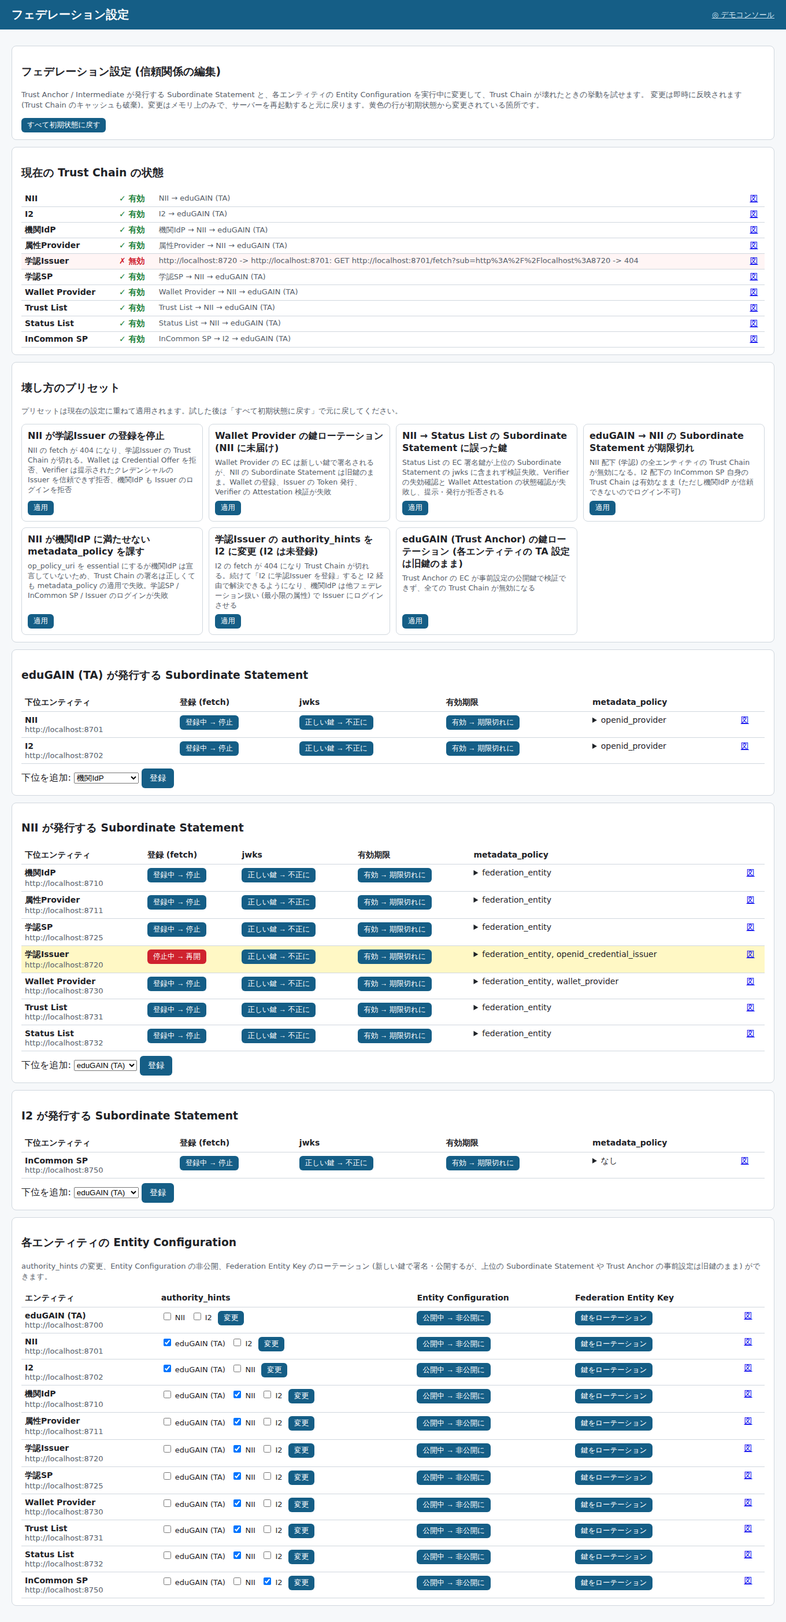
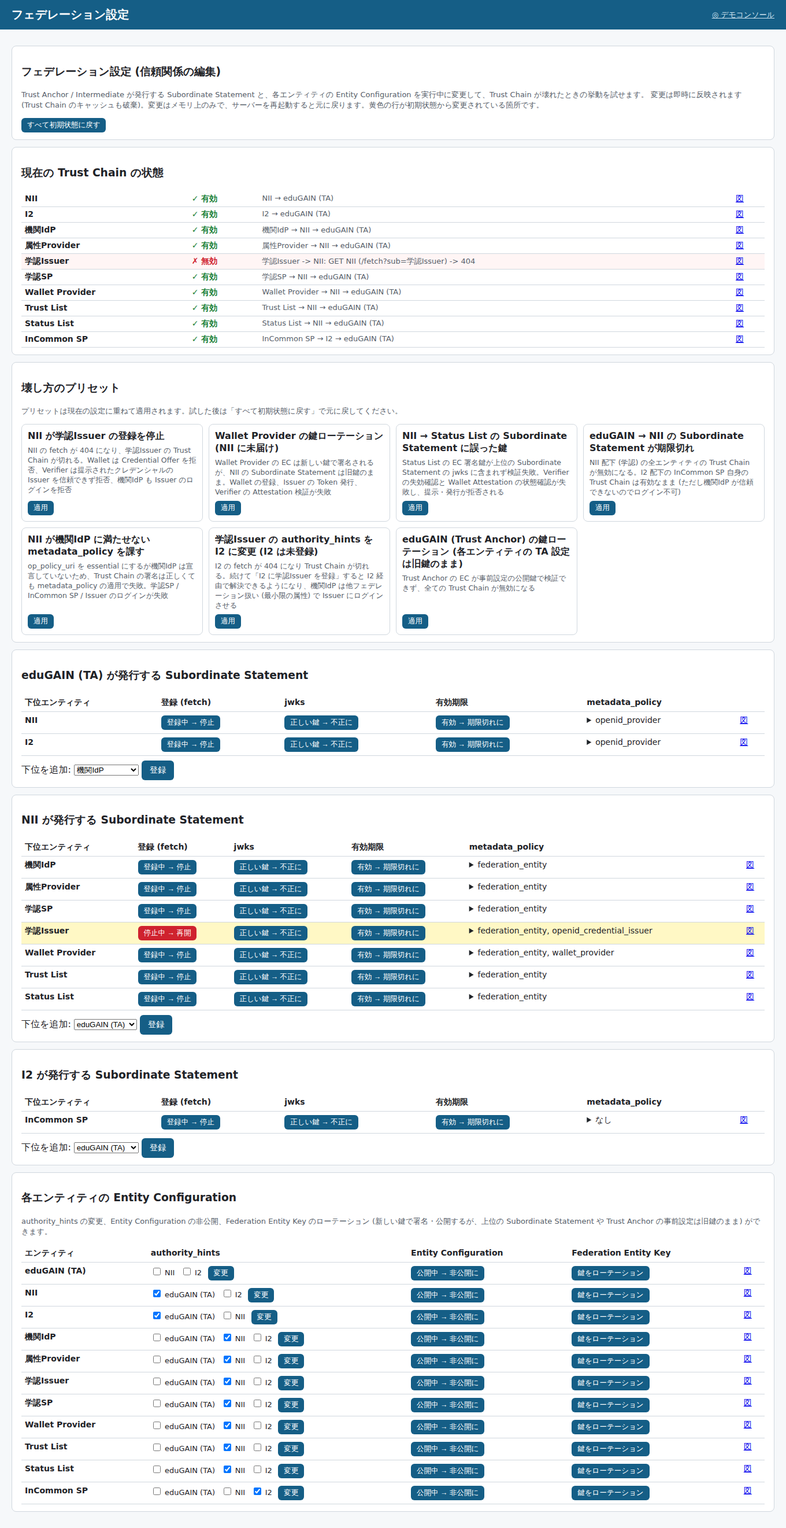
Show entity display names instead of URLs in UI messages
Add a shared humanize() that replaces entity identifiers (also URL-encoded
ones and URLs under them) with names like 学認Issuer, and apply it to the
timeline, error messages, trust chain paths, the visualizer and settings
pages. The Go web wallet fetches the same names from the demo console
(/api/entity-names) and applies them to its steps, errors and screens.

Claude-Session: https://claude.ai/code/session_01UThMbN7Kw4nPwMHsZJPwcr

diff --git a/src/federation/trust-chain-view.ts b/src/federation/trust-chain-view.ts
@@ -1,5 +1,6 @@
 import * as jose from 'jose'
-import { esc } from '../common/html.js'
+import { esc, escMsg } from '../common/html.js'
+import { humanize } from '../common/names.js'
 import type { FederationMetadata, MetadataPolicy } from './entity.js'
 import {
   type ResolvedTrustChain,
@@ -215,7 +216,7 @@ const diagramSvg = (model: Model, leafId: string, path: Set<string>, label: (id:
           [`metadata: ${trunc(Object.keys(node.claims.metadata ?? {}).join(', ') || '-', 30)}`],
         ]
       : node.fetch && !node.fetch.ok
-        ? [['取得失敗', 'tng'], [trunc(node.fetch.error ?? '', 40), 'tng']]
+        ? [['取得失敗', 'tng'], [trunc(humanize(node.fetch.error ?? ''), 40), 'tng']]
         : [['(未取得)', 'tmut']]
     parts.push(`<g><rect x="${p.x}" y="${p.y}" width="${EC_W}" height="${EC_H}" rx="8" class="card ${onPath ? 'onp' : ''}" ${st === 'ng' ? `style="stroke:${COLORS.ng};stroke-width:2.5"` : ''}/>
       <path d="M${p.x} ${p.y + 8}a8 8 0 0 1 8 -8h${EC_W - 16}a8 8 0 0 1 8 8v20h-${EC_W}z" class="ech"/>
@@ -257,7 +258,7 @@ const diagramSvg = (model: Model, leafId: string, path: Set<string>, label: (id:
             `metadata_policy: ${trunc(Object.keys(s.claims.metadata_policy ?? {}).join(', ') || 'なし', 24)}`,
           ],
         ]
-      : [['取得失敗', 'tng'], [trunc(s.fetch?.error ?? '', 42), 'tng']]
+      : [['取得失敗', 'tng'], [trunc(humanize(s.fetch?.error ?? ''), 42), 'tng']]
     parts.push(`<g><rect x="${p.x}" y="${p.y}" width="${SS_W}" height="${EC_H}" rx="8" class="card ${path.has(s.issuer) && path.has(s.entity) ? 'onp' : ''}" ${st === 'ng' ? `style="stroke:${COLORS.ng};stroke-width:2.5"` : ''}/>
       <path d="M${p.x} ${p.y + 8}a8 8 0 0 1 8 -8h${SS_W - 16}a8 8 0 0 1 8 8v20h-${SS_W}z" class="ssh"/>
       <text x="${p.x + 10}" y="${p.y + 19}" class="ht">Subordinate Statement</text>
@@ -286,7 +287,7 @@ const diagramSvg = (model: Model, leafId: string, path: Set<string>, label: (id:
           ['(TA から順にマージして Leaf に適用)'],
           [`entity types: ${trunc(Object.keys(final.resolved).join(', '), 28)}`],
         ]
-      : [[trunc(final.message, 44), 'tng'], [trunc(final.message.slice(43), 44), 'tng']]
+      : [[trunc(humanize(final.message), 44), 'tng'], [trunc(humanize(final.message).slice(43), 44), 'tng']]
     parts.push(`<g><rect x="${x}" y="${y}" width="${SS_W}" height="${EC_H - 40}" rx="8" class="card" style="stroke:${ok ? COLORS.ok : COLORS.ng};stroke-width:2;stroke-dasharray:6 4"/>
       <text x="${x + 10}" y="${y + 24}" class="ft" fill="${ok ? COLORS.ok : COLORS.ng}">${ok ? 'Resolved Metadata' : 'Trust Chain 構築失敗'}</text>
       ${lines(x + 10, y + 50, rows)}${stepNo(final, x + SS_W - 4, y + 4)}</g>`)
@@ -340,8 +341,8 @@ const stepList = (model: Model, rawLabel: (id?: string) => string) => {
         st = e.ok ? 'ok' : 'ng'
         text =
           e.kind === 'ec'
-            ? `${label(e.entity)} の Entity Configuration を取得 <code>GET ${esc(e.url)}</code>`
-            : `${label(e.issuer as string)} から ${label(e.entity)} についての Subordinate Statement を取得 <code>GET ${esc(e.url)}</code>`
+            ? `${label(e.entity)} の Entity Configuration を取得 <code>GET ${escMsg(e.url)}</code>`
+            : `${label(e.issuer as string)} から ${label(e.entity)} についての Subordinate Statement を取得 <code>GET ${escMsg(e.url)}</code>`
         break
       case 'authority_hints':
         text = `${label(e.entity)} の authority_hints を確認 → ${e.hints.length ? e.hints.map((h) => label(h)).join(', ') : '(なし)'}`
@@ -361,10 +362,10 @@ const stepList = (model: Model, rawLabel: (id?: string) => string) => {
         break
       case 'error':
         st = 'ng'
-        text = `Trust Chain を構築できませんでした: ${esc(e.message)}`
+        text = `Trust Chain を構築できませんでした: ${escMsg(e.message)}`
         break
     }
-    const err = (e.type === 'fetch' || e.type === 'verify') && e.error ? `<div class="se">${esc(e.error)}</div>` : ''
+    const err = (e.type === 'fetch' || e.type === 'verify') && e.error ? `<div class="se">${escMsg(e.error)}</div>` : ''
     items.push(`<li class="${st}"><span class="sn2">${n}</span><span class="mk">${st === 'ok' ? '✓' : st === 'ng' ? '✗' : '→'}</span><div>${text}${err}</div></li>`)
   }
   return `<ol class="steps">${items.join('')}</ol>`
@@ -438,7 +439,7 @@ export const trustChainVisualHtml = (
   const metadata = trace.find((e): e is MetadataStage => e.type === 'metadata')
   const head = result
     ? `<h3 class="ok">✓ Trust Chain 検証成功</h3><p>${result.path.map((p) => `<code>${esc(label(p))}</code>`).join(' → ')} (Trust Anchor: ${esc(label(result.trustAnchor))})</p>`
-    : `<h3 class="ng">✗ Trust Chain 検証失敗</h3><pre>${esc(error ?? '')}</pre>`
+    : `<h3 class="ng">✗ Trust Chain 検証失敗</h3><pre>${escMsg(error ?? '')}</pre>`
   return `<section>${head}
     <h4>① フェデレーション上の解決経路</h4>
     <p class="mut">Leaf から authority_hints をたどって上位エンティティの Entity Configuration を取得し、上位の fetch エンドポイントから Subordinate Statement を取得します。

diff --git a/src/services/verifier.ts b/src/services/verifier.ts
@@ -15,7 +15,7 @@ import {
   initializeVerifierFlow,
 } from '@trustknots/vcknots/verifier'
 import { DATA_DIR, verifyWithJwks, writeDataFile } from '../common/keys.js'
-import { esc, page, qrSvg, trustChainHtml } from '../common/html.js'
+import { esc, page, qrSvg, trustChainHtml, escMsg } from '../common/html.js'
 import { toErrorResponse } from '../common/vcknots-util.js'
 import {
   ATTESTATION_HEADER,
@@ -172,7 +172,7 @@ export const createVerifier = async (opts: {
         `Verifier - ${opts.name}`,
         `<section><p>学認 学生証明書 (SD-JWT VC) の提示を要求します。</p>
         <form method="post" action="/requests"><button>提示リクエストを作成</button></form>
-        <p class="mut">client_id: <code>${esc(clientId)}</code> / Registrar: <a href="${esc(opts.trustListEntityId)}/">${esc(opts.trustListEntityId)}</a></p>
+        <p class="mut">client_id: <code>${esc(clientId)}</code> / Registrar: <a href="${esc(opts.trustListEntityId)}/">${escMsg(opts.trustListEntityId)}</a></p>
         <p class="mut">Access Certificate (WRPAC): ${accessCertificate ? `<code>${esc(accessCertificate.subject)}</code><br>issuer <code>${esc(accessCertificate.issuer)}</code> serial <code>${esc(accessCertificate.serialNumber)}</code>` : '<span class="ng">未登録</span>'}</p>
         <form method="post" action="/register"><button>Registrar へ登録 / 再登録 (Access Certificate 再発行)</button></form></section>
         <section><h3>履歴</h3><table><tr><th>state</th><th>作成</th><th>結果</th></tr>${rows}</table></section>`
@@ -185,7 +185,7 @@ export const createVerifier = async (opts: {
       await registerToTrustList()
       return c.redirect('/', 303)
     } catch (e) {
-      return c.html(page('Error', `<pre class="ng">${esc((e as Error).message)}</pre>`), 500)
+      return c.html(page('Error', `<pre class="ng">${escMsg((e as Error).message)}</pre>`), 500)
     }
   })
 
@@ -307,7 +307,7 @@ export const createVerifier = async (opts: {
         detail: `${esc(att.walletName ?? '')} <code>${esc(att.clientId)}</code><br>Wallet Provider: ${trustChainHtml(att.trustChainPath)}<br>Wallet Instance status: ${esc(att.status.statusName)} (Status List idx ${att.status.idx})`,
       })
     } catch (e) {
-      checks.push({ name: 'Wallet Attestation', ok: false, detail: esc((e as Error).message) })
+      checks.push({ name: 'Wallet Attestation', ok: false, detail: escMsg((e as Error).message) })
       return fail(401)
     }
 
@@ -339,7 +339,7 @@ export const createVerifier = async (opts: {
       if (sdJwt.payload.vct !== opts.vct) throw new Error(`unexpected vct ${String(sdJwt.payload.vct)}`)
       checks.push({ name: 'Issuer (OpenID Federation)', ok: true, detail: trustChainHtml(chain.path) })
     } catch (e) {
-      checks.push({ name: 'Issuer (OpenID Federation)', ok: false, detail: esc((e as Error).message) })
+      checks.push({ name: 'Issuer (OpenID Federation)', ok: false, detail: escMsg((e as Error).message) })
       return fail()
     }
 
@@ -349,7 +349,7 @@ export const createVerifier = async (opts: {
       const st = await statusListClient.check(sdJwt.payload as Record<string, unknown>)
       const chain = st.statusIssuer ? await resolveTrustChain(st.statusIssuer, opts.anchors) : undefined
       const detail = `idx=${st.idx} status=0x${st.status.toString(16).padStart(2, '0')} (${st.statusName})
-        <br><code>${esc(st.uri)}</code> iat=${new Date(st.token.iat * 1000).toISOString()} ttl=${st.token.ttl ?? '-'}s${st.fromCache ? ' (cached)' : ''}
+        <br>${escMsg(st.uri)} iat=${new Date(st.token.iat * 1000).toISOString()} ttl=${st.token.ttl ?? '-'}s${st.fromCache ? ' (cached)' : ''}
         <br>Status Issuer: ${chain ? trustChainHtml(chain.path) : '-'}`
       if (st.status !== StatusType.VALID) {
         checks.push({ name: 'Status List', ok: false, detail })
@@ -357,7 +357,7 @@ export const createVerifier = async (opts: {
       }
       checks.push({ name: 'Status List', ok: true, detail })
     } catch (e) {
-      checks.push({ name: 'Status List', ok: false, detail: esc((e as Error).message) })
+      checks.push({ name: 'Status List', ok: false, detail: escMsg((e as Error).message) })
       return fail()
     }
 

diff --git a/src/services/federation-settings.ts b/src/services/federation-settings.ts
@@ -3,6 +3,7 @@ import { ENTITY, ENTITY_LABELS } from '../config.js'
 import { jwksOf } from '../common/keys.js'
 import { emit } from '../common/events.js'
 import { esc } from '../common/html.js'
+import { humanize } from '../common/names.js'
 import {
   type FederationEntity,
   type MetadataPolicy,
@@ -209,7 +210,7 @@ export const createFederationSettings = (opts: { members: FederationEntity[]; an
           const chain = await resolveTrustChain(id, opts.anchors, { noCache: true })
           return { id, ok: true, detail: chain.path.map(label).join(' → ') }
         } catch (e) {
-          return { id, ok: false, detail: (e as Error).message.replace(/^no valid trust chain for \S+: /, '') }
+          return { id, ok: false, detail: humanize((e as Error).message.replace(/^no valid trust chain for \S+: /, '')) }
         }
       })
     )
@@ -228,7 +229,7 @@ export const createFederationSettings = (opts: { members: FederationEntity[]; an
           .map((r) => {
             const policy = r.metadataPolicy ? JSON.stringify(r.metadataPolicy, null, 2) : ''
             const f = { sup: a.entityId, sub: r.entityId }
-            return `<tr class="${regChanged(a.entityId, r) ? 'chg' : ''}"><td><b>${esc(label(r.entityId))}</b><br><span class="mut">${esc(r.entityId)}</span>${
+            return `<tr class="${regChanged(a.entityId, r) ? 'chg' : ''}"><td><b>${esc(label(r.entityId))}</b>${
               isInitialReg(a.entityId, r.entityId) ? '' : ' <span class="tag">追加</span>'
             }</td>
             <td>${btn('toggle_registration', f, r.disabled ? '停止中 → 再開' : '登録中 → 停止', r.disabled ? 'bad' : '')}</td>
@@ -256,7 +257,7 @@ export const createFederationSettings = (opts: { members: FederationEntity[]; an
           (a) => `<label><input type="checkbox" name="hints" value="${esc(a.entityId)}" ${e.authorityHints?.includes(a.entityId) ? 'checked' : ''}> ${esc(label(a.entityId))}</label>`
         )
         .join(' ')
-      return `<tr class="${entityChanged(e) ? 'chg' : ''}"><td><b>${esc(label(e.entityId))}</b><br><span class="mut">${esc(e.entityId)}</span></td>
+      return `<tr class="${entityChanged(e) ? 'chg' : ''}"><td><b>${esc(label(e.entityId))}</b></td>
         <td><form method="post" action="/federation" class="inl"><input type="hidden" name="op" value="set_hints"><input type="hidden" name="entity" value="${esc(e.entityId)}">${hintBoxes} <button>変更</button></form></td>
         <td>${btn('toggle_ec', { entity: e.entityId }, e.faults.ecDisabled ? '非公開 → 公開' : '公開中 → 非公開に', e.faults.ecDisabled ? 'bad' : '')}</td>
         <td>${btn('toggle_rotate', { entity: e.entityId }, e.faults.rotatedKey ? 'ローテーション済 → 戻す' : '鍵をローテーション', e.faults.rotatedKey ? 'bad' : '')}</td>
@@ -309,7 +310,7 @@ export const createFederationSettings = (opts: { members: FederationEntity[]; an
         emit('Federation 設定', 'info', message)
       } catch (e) {
         ok = false
-        message = (e as Error).message
+        message = humanize((e as Error).message)
       }
       return c.redirect(`/federation?ok=${ok ? 1 : 0}&msg=${encodeURIComponent(message)}`, 303)
     })

diff --git a/src/services/demo-console.ts b/src/services/demo-console.ts
@@ -1,7 +1,7 @@
 import { Hono } from 'hono'
 import { cors } from 'hono/cors'
 import { ENTITY, ENTITY_LABELS, WALLET_UI_URL } from '../config.js'
-import { esc, page } from '../common/html.js'
+import { esc, page, escMsg } from '../common/html.js'
 import { type DemoEvent, clearEvents, emit, eventsAfter } from '../common/events.js'
 import type { TrustAnchorConfig } from '../federation/resolver.js'
 import { TRUST_CHAIN_VIEW_CSS, resolveWithTrace, trustChainVisualHtml } from '../federation/trust-chain-view.js'
@@ -247,7 +247,7 @@ export const createDemoConsole = (opts: {
     const anchorId = opts.anchors[0]?.entityId
     const options = Object.entries(ENTITY_LABELS)
       .filter(([id]) => id !== anchorId)
-      .map(([id, name]) => `<option value="${esc(id)}" ${id === target ? 'selected' : ''}>${esc(name)} — ${esc(id)}</option>`)
+      .map(([id, name]) => `<option value="${esc(id)}" ${id === target ? 'selected' : ''}>${esc(name)}</option>`)
       .join('')
     const traced = await resolveWithTrace(target, opts.anchors)
     return c.html(
@@ -255,11 +255,13 @@ export const createDemoConsole = (opts: {
         'Trust Chain Visualizer',
         `<style>main{max-width:1280px}${TRUST_CHAIN_VIEW_CSS}</style>
         <section><form method="get">解決するエンティティ: <select name="entity">${options}</select> <button>Trust Chain を解決</button></form>
-        <p class="mut">Trust Anchor: <code>${esc(anchorId)}</code> (公開鍵は事前設定)。OpenID Federation 1.0 の手順でボトムアップに Trust Chain を構築・検証し、その過程をトレースして描画します (キャッシュは使いません)。</p></section>
+        <p class="mut">Trust Anchor: ${escMsg(anchorId)} (公開鍵は事前設定)。OpenID Federation 1.0 の手順でボトムアップに Trust Chain を構築・検証し、その過程をトレースして描画します (キャッシュは使いません)。</p></section>
         ${trustChainVisualHtml(target, traced, ENTITY_LABELS)}`
       )
     )
   })
+  /** Display names of entity identifiers (used by the Go web wallet). */
+  app.get('/api/entity-names', (c) => c.json(ENTITY_LABELS))
   app.get('/api/events', (c) => c.json(eventsAfter(Number(c.req.query('after') ?? 0))))
   app.delete('/api/events', (c) => {
     clearEvents()

diff --git a/src/services/issuer.ts b/src/services/issuer.ts
@@ -21,7 +21,7 @@ import {
 } from '@trustknots/vcknots/issuer'
 import type { IssueCredentialProvider } from '@trustknots/vcknots/providers'
 import { type SigningKey, jwksOf, signJwt, verifyWithJwks } from '../common/keys.js'
-import { esc, page, qrSvg, trustChainHtml } from '../common/html.js'
+import { esc, page, qrSvg, trustChainHtml, escMsg } from '../common/html.js'
 import { toErrorResponse } from '../common/vcknots-util.js'
 import {
   ATTESTATION_HEADER,
@@ -276,7 +276,7 @@ export const createIssuer = async (opts: {
     try {
       return c.redirect(await oidc.authorizationUrl(opts.idpEntityId), 302)
     } catch (e) {
-      return c.html(page('Error', `<pre class="ng">${esc((e as Error).message)}</pre>`), 500)
+      return c.html(page('Error', `<pre class="ng">${escMsg((e as Error).message)}</pre>`), 500)
     }
   })
 
@@ -324,7 +324,7 @@ export const createIssuer = async (opts: {
       s.apPath = ap.chain.path
       return c.redirect('/', 302)
     } catch (e) {
-      return c.html(page('Error', `<pre class="ng">${esc((e as Error).message)}</pre>`), 500)
+      return c.html(page('Error', `<pre class="ng">${escMsg((e as Error).message)}</pre>`), 500)
     }
   })
 
@@ -391,7 +391,7 @@ export const createIssuer = async (opts: {
           .join(' ')
         return `<tr><td>${esc(i.user)}</td><td>${esc(i.createdAt)}</td><td>${esc(i.issuedAt ?? '未受領')}</td>
         <td>${i.walletClientId ? `<code>${esc(i.walletClientId)}</code><br><span class="mut">${trustChainHtml(i.walletProviderPath ?? [])}</span>` : ''}</td>
-        <td>${i.status ? `<code>${esc(i.status.uri)}</code><br>idx=${i.status.idx}` : ''}</td>
+        <td>${i.status ? `${escMsg(i.status.uri)}<br>idx=${i.status.idx}` : ''}</td>
         <td>${i.status ? `<span class="${value === StatusType.VALID ? 'ok' : 'ng'}">${esc(statusTypeName(value))}</span> ${actions}` : ''}</td></tr>`
       })
       .join('')

diff --git a/src/services/authority.ts b/src/services/authority.ts
@@ -1,6 +1,6 @@
 import { Hono } from 'hono'
 import type { SigningKey } from '../common/keys.js'
-import { esc, page } from '../common/html.js'
+import { esc, page, escMsg } from '../common/html.js'
 import {
   type SubordinateRegistration,
   createFederationEntity,
@@ -32,7 +32,7 @@ export const createAuthority = (opts: {
     const role = opts.authorityHints?.length ? 'Intermediate Authority' : 'Trust Anchor'
     const rows = [...(entity.subordinates?.values() ?? [])]
       .map(
-        (s) => `<tr><td><a href="${esc(s.entityId)}/">${esc(s.entityId)}</a></td>
+        (s) => `<tr><td><a href="${esc(s.entityId)}/">${escMsg(s.entityId)}</a></td>
           <td>${esc((s.entityTypes ?? []).join(', '))}${s.disabled ? ' <span class="ng">登録停止中</span>' : ''}${s.wrongJwks ? ' <span class="ng">jwks 不正</span>' : ''}${s.expired ? ' <span class="ng">期限切れ</span>' : ''}</td>
           <td><a href="/fetch?sub=${encodeURIComponent(s.entityId)}">Subordinate Statement</a></td>
           <td>${s.metadataPolicy ? `<pre>${esc(JSON.stringify(s.metadataPolicy, null, 1))}</pre>` : ''}</td></tr>`
@@ -43,7 +43,7 @@ export const createAuthority = (opts: {
         `${opts.organizationName} (${role})`,
         `<section><p>Entity ID: <code>${esc(opts.entityId)}</code></p>
         <p><a href="/.well-known/openid-federation">Entity Configuration</a>
-        ${hints.length ? ` / authority_hints: ${hints.map((h) => `<code>${esc(h)}</code>`).join(', ')}` : ''}</p></section>
+        ${hints.length ? ` / authority_hints: ${hints.map((h) => escMsg(h)).join(', ')}` : ''}</p></section>
         <section><h3>Subordinates</h3><table><tr><th>Entity</th><th>Entity types</th><th>Statement</th><th>metadata_policy</th></tr>${rows}</table></section>`
       )
     )

diff --git a/src/services/sp.ts b/src/services/sp.ts
@@ -2,7 +2,7 @@ import { randomUUID } from 'node:crypto'
 import { type Context, Hono } from 'hono'
 import { getCookie, setCookie } from 'hono/cookie'
 import { type SigningKey, jwksOf } from '../common/keys.js'
-import { esc, page, trustChainHtml } from '../common/html.js'
+import { esc, page, trustChainHtml, escMsg } from '../common/html.js'
 import { emit } from '../common/events.js'
 import { createOidcRp } from '../common/oidc-rp.js'
 import { createFederationEntity, mountFederationEndpoints } from '../federation/entity.js'
@@ -42,7 +42,7 @@ export const mountFederatedLogin = (
     try {
       return c.redirect(await oidc.authorizationUrl(opts.idpEntityId), 302)
     } catch (e) {
-      return c.html(page('Error', `<pre class="ng">${esc((e as Error).message)}</pre>`), 500)
+      return c.html(page('Error', `<pre class="ng">${escMsg((e as Error).message)}</pre>`), 500)
     }
   })
 
@@ -57,7 +57,7 @@ export const mountFederatedLogin = (
       return c.redirect('/', 302)
     } catch (e) {
       emit(opts.spName, 'error', 'ログインに失敗', (e as Error).message)
-      return c.html(page('Error', `<pre class="ng">${esc((e as Error).message)}</pre>`), 400)
+      return c.html(page('Error', `<pre class="ng">${escMsg((e as Error).message)}</pre>`), 400)
     }
   })
 

diff --git a/src/common/names.ts b/src/common/names.ts
@@ -1,0 +1,19 @@
+import { ENTITY_LABELS } from '../config.js'
+
+/**
+ * Display names for entity identifiers: UI messages show "学認Issuer" instead of
+ * "http://localhost:8720". (Entity IDs stay as-is in protocol messages and on "Entity ID" fields.)
+ */
+const escapeRe = (s: string) => s.replace(/[.*+?^${}()|[\]\\]/g, '\\$&')
+const ids = Object.keys(ENTITY_LABELS).sort((a, b) => b.length - a.length)
+const encodedRe = new RegExp(ids.map((id) => escapeRe(encodeURIComponent(id))).join('|'), 'g')
+/** entity ID (not followed by more port digits), optional trailing path */
+const plainRe = new RegExp(`(${ids.map(escapeRe).join('|')})(?!\\d)((?:/[^\\s"'<>,;:)\\]]*)?)`, 'g')
+
+export const nameOf = (id: string) => ENTITY_LABELS[id] ?? ENTITY_LABELS[id.replace(/\/$/, '')] ?? id
+
+/** Replaces entity identifiers (also URL-encoded ones and URLs under them) in a message with display names. */
+export const humanize = (text: string) =>
+  String(text ?? '')
+    .replace(encodedRe, (m) => nameOf(decodeURIComponent(m)))
+    .replace(plainRe, (_m, id: string, path: string) => (path && path !== '/' ? `${nameOf(id)} (${path})` : nameOf(id)))

diff --git a/test/names.spec.ts b/test/names.spec.ts
@@ -1,0 +1,21 @@
+import assert from 'node:assert/strict'
+import { test } from 'node:test'
+import { ENTITY } from '../src/config.js'
+import { humanize, nameOf } from '../src/common/names.js'
+
+test('nameOf maps entity identifiers to display names', () => {
+  assert.equal(nameOf(ENTITY.issuer), '学認Issuer')
+  assert.equal(nameOf(`${ENTITY.issuer}/`), '学認Issuer')
+  assert.equal(nameOf('https://example.com'), 'https://example.com')
+})
+
+test('humanize replaces identifiers, URLs under them and URL-encoded identifiers', () => {
+  assert.equal(
+    humanize(`no valid trust chain for ${ENTITY.issuer}: GET ${ENTITY.nii}/fetch?sub=${encodeURIComponent(ENTITY.issuer)} -> 404`),
+    'no valid trust chain for 学認Issuer: GET NII (/fetch?sub=学認Issuer) -> 404'
+  )
+  assert.equal(humanize(`present at ${ENTITY.verifier}/callback: failed`), 'present at Verifier (/callback): failed')
+  assert.equal(humanize(`${ENTITY.walletProvider} -> ${ENTITY.nii}`), 'Wallet Provider -> NII')
+  // a longer port is a different origin
+  assert.equal(humanize(`${ENTITY.issuer}1/x`), `${ENTITY.issuer}1/x`)
+})

diff --git a/src/services/status-list.ts b/src/services/status-list.ts
@@ -5,7 +5,7 @@ import { join } from 'node:path'
 import { Hono } from 'hono'
 import { cors } from 'hono/cors'
 import { DATA_DIR, type SigningKey, jwksOf, signJwt, writeDataFile } from '../common/keys.js'
-import { esc, page } from '../common/html.js'
+import { esc, page, escMsg } from '../common/html.js'
 import { createFederationEntity, mountFederationEndpoints } from '../federation/entity.js'
 import {
   type Bits,
@@ -179,7 +179,7 @@ export const createStatusList = (opts: {
           .reverse()
           .slice(0, 10)
           .join('<br>')
-        return `<section><h3>Status List <code>${esc(listUri(l.id))}</code></h3>
+        return `<section><h3>Status List <code>${escMsg(listUri(l.id))}</code></h3>
           <p class="mut">owner: ${esc(l.owner)} / bits=${l.list.bits} / size=${l.list.size} / ttl=${TTL_SEC}s /
           <a href="/lists/${encodeURIComponent(l.id)}">Status List Token</a></p>
           <table><tr><th>idx</th><th>Referenced Token</th><th>status</th></tr>${rows}</table>

diff --git a/src/services/idp.ts b/src/services/idp.ts
@@ -3,7 +3,7 @@ import { randomUUID } from 'node:crypto'
 import { Hono } from 'hono'
 import * as jose from 'jose'
 import { type SigningKey, jwksOf, signJwt, verifyWithJwks } from '../common/keys.js'
-import { esc, page, trustChainHtml } from '../common/html.js'
+import { esc, page, trustChainHtml, escMsg } from '../common/html.js'
 import { createFederationEntity, mountFederationEndpoints } from '../federation/entity.js'
 import { type TrustAnchorConfig, resolveEntityMetadata } from '../federation/resolver.js'
 
@@ -141,7 +141,7 @@ export const createIdp = (opts: {
       return c.html(
         page(
           'Error',
-          `<p class="ng">RP ${esc(clientId)} をフェデレーションで確認できません</p><pre>${esc((e as Error).message)}</pre>`
+          `<p class="ng">RP ${escMsg(clientId)} をフェデレーションで確認できません</p><pre>${escMsg((e as Error).message)}</pre>`
         ),
         400
       )

diff --git a/src/common/events.ts b/src/common/events.ts
@@ -1,3 +1,5 @@
+import { humanize } from './names.js'
+
 /**
  * In-process event bus feeding the demo console timeline. Every entity emits what it does
  * (trust chain checks, issuance, presentation checks, status changes, registrations, ...).
@@ -16,7 +18,14 @@ const events: DemoEvent[] = []
 let nextId = 1
 
 export const emit = (source: string, level: DemoEvent['level'], message: string, detail?: string) => {
-  events.push({ id: nextId++, at: new Date().toISOString(), source, level, message, ...(detail ? { detail } : {}) })
+  events.push({
+    id: nextId++,
+    at: new Date().toISOString(),
+    source,
+    level,
+    message: humanize(message),
+    ...(detail ? { detail: humanize(detail) } : {}),
+  })
   if (events.length > MAX_EVENTS) events.splice(0, events.length - MAX_EVENTS)
 }
 
